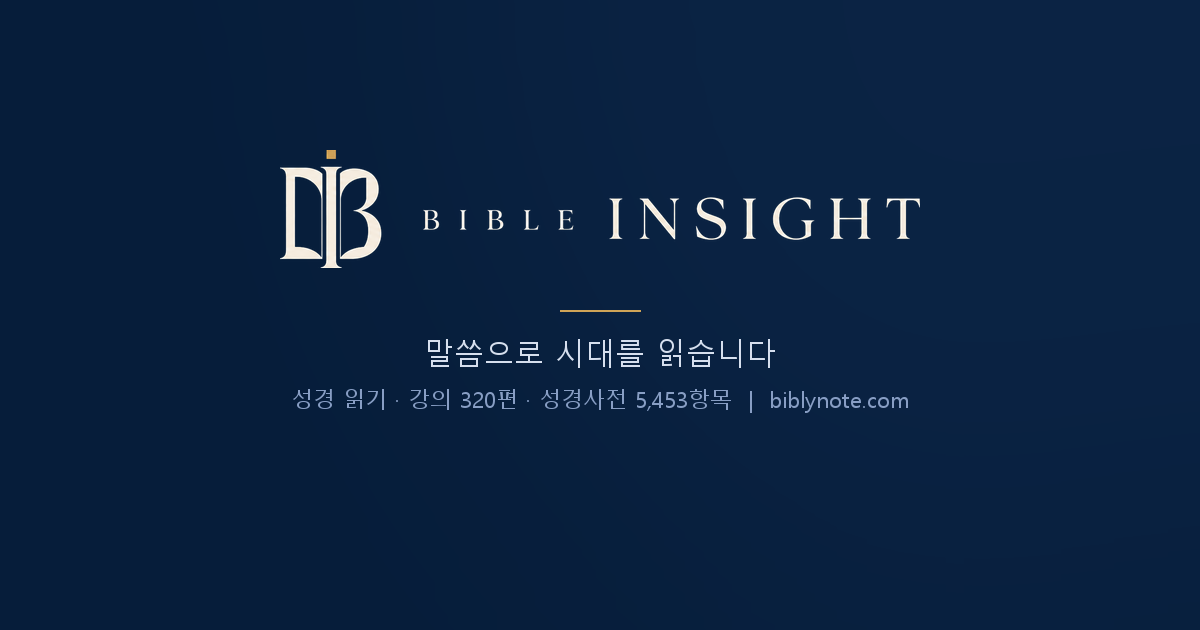
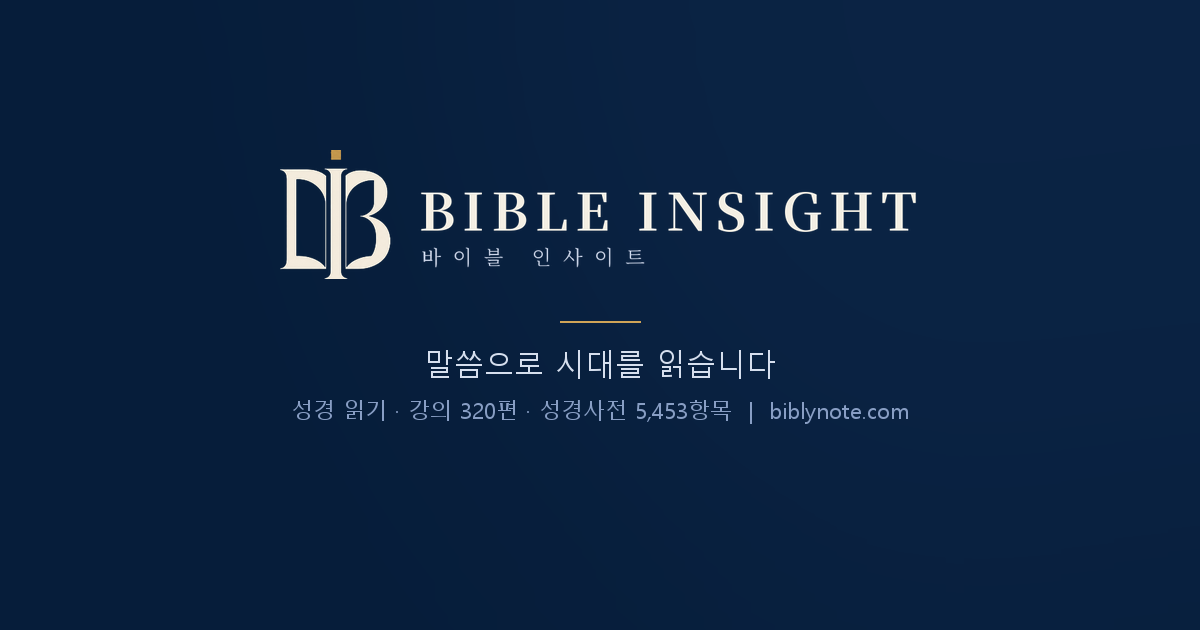
tweak(브랜드): 헤더 워드마크 굵게 + 한글 '바이블 인사이트' 소자 병기(사용자 피드백)
- 원본 wide 로고의 가는 세리프 대신 록업을 직접 조판:
  DB 마크 + Noto Serif Bold 'BIBLE INSIGHT' + 아랫줄 한글 소자(무광 네이비)
- 밝은/어두운 배경 두 변형(compose_lockup) — og-cover도 동일 록업으로 재생성
- 캐시버스터 ?v=2 (9곳)

Changed region(s): [[0.2158, 0.2413, 0.7708, 0.4524], [0.2467, 0.5429, 0.7708, 0.6635], [0.4625, 0.4825, 0.5242, 0.5127]]

diff --git a/booklet.html b/booklet.html
@@ -659,7 +659,7 @@
       ].filter(Boolean).map(r=>`<tr><td style="padding:3px 0;color:#8a94a8;width:120px;vertical-align:top">${r[0]}</td><td style="padding:3px 0;color:#2a3a55">${esc(r[1])}</td></tr>`).join('');
       const html=`<div style="max-width:640px;margin:0 auto;font-family:'Pretendard',system-ui,sans-serif;color:#1c2b46;padding:8px 4px">
         <div style="display:flex;align-items:center;justify-content:space-between;border-bottom:2px solid #213a6b;padding-bottom:16px;margin-bottom:22px">
-          <div style="display:flex;align-items:center;gap:10px"><img src="/images/logo-heritage-wide.png?v=1" alt="바이블 인사이트" style="height:38px;width:auto"/></div>
+          <div style="display:flex;align-items:center;gap:10px"><img src="/images/logo-heritage-wide.png?v=2" alt="바이블 인사이트" style="height:38px;width:auto"/></div>
           <div style="text-align:right"><p style="font-size:22px;font-weight:800;letter-spacing:.04em;margin:0;color:#213a6b">영 수 증</p><p style="font-size:11px;color:#8a94a8;margin:4px 0 0">RECEIPT · 거래 확인서</p></div>
         </div>
         <table style="width:100%;font-size:12.5px;line-height:1.7;margin-bottom:18px"><tbody>
@@ -739,7 +739,7 @@
       window._curLessons=lessons;
       const loadList=unlocked?lessons:lessons.slice(0,1);
       const notes=await Promise.all(loadList.map(async l=>{try{const r=await fetch('content/notes/'+l.id+'.json?t='+Date.now());if(r.ok)return await r.json();}catch(e){}return null;}));
-      let h=`<div class="cover-page" style="text-align:center;padding:42px 0 34px;border-bottom:1px solid #e6e9f0"><img src="/images/logo-heritage-wide.png?v=1" alt="바이블 인사이트" style="height:82px;width:auto;margin:0 auto 16px;display:block"/><p style="color:#00704a;font-weight:700;letter-spacing:.28em;font-size:11px;margin:0 0 14px">바이블 인사이트 · 강의 노트</p><h1 style="font-size:29px;font-weight:700;color:#171717;line-height:1.4;margin:0 12px">${esc(t.name)}</h1><p style="color:#5a6b88;font-size:13px;margin:16px 0 0">요약노트 + 필기 공간 · 전 ${t.lessons.length}강</p><p style="color:#9aa6bd;font-size:11px;margin:20px 0 0">강의를 들으며 메모하고 참고하세요 · biblynote.com</p>${(CUR_BUYER&&CUR_EMAIL)?`<p style="color:#00704a;font-size:10.5px;margin:18px 0 0;letter-spacing:.02em">정품 · <b>${esc(CUR_EMAIL)}</b> 님께 발행 · 무단 복제·배포 금지</p>`:''}</div>`;
+      let h=`<div class="cover-page" style="text-align:center;padding:42px 0 34px;border-bottom:1px solid #e6e9f0"><img src="/images/logo-heritage-wide.png?v=2" alt="바이블 인사이트" style="height:82px;width:auto;margin:0 auto 16px;display:block"/><p style="color:#00704a;font-weight:700;letter-spacing:.28em;font-size:11px;margin:0 0 14px">바이블 인사이트 · 강의 노트</p><h1 style="font-size:29px;font-weight:700;color:#171717;line-height:1.4;margin:0 12px">${esc(t.name)}</h1><p style="color:#5a6b88;font-size:13px;margin:16px 0 0">요약노트 + 필기 공간 · 전 ${t.lessons.length}강</p><p style="color:#9aa6bd;font-size:11px;margin:20px 0 0">강의를 들으며 메모하고 참고하세요 · biblynote.com</p>${(CUR_BUYER&&CUR_EMAIL)?`<p style="color:#00704a;font-size:10.5px;margin:18px 0 0;letter-spacing:.02em">정품 · <b>${esc(CUR_EMAIL)}</b> 님께 발행 · 무단 복제·배포 금지</p>`:''}</div>`;
       // 목차 — 구매자에게는 체크박스·클릭·개별PDF 제공
       const tocRows=lessons.map((l,i)=>{
         if(unlocked){

diff --git a/index.html b/index.html
@@ -189,7 +189,7 @@
     <div class="max-w-7xl mx-auto px-5 pt-3.5 pb-2.5 relative flex items-center justify-center">
       <!-- 새 로고에 BIBLE INSIGHT 워드마크 포함 — 한글 병기 제거(중복 방지), 아래에 ACADEMY 소라벨만 -->
       <a href="#top" class="inline-flex flex-col items-center gap-1.5 leading-none" aria-label="바이블 인사이트">
-        <img src="/images/logo-heritage-wide.png?v=1" alt="바이블 인사이트 로고" class="h-10 md:h-12 w-auto shrink-0" />
+        <img src="/images/logo-heritage-wide.png?v=2" alt="바이블 인사이트 로고" class="h-10 md:h-12 w-auto shrink-0" />
         <span class="inline-flex items-center gap-2">
           <span class="h-px w-6 bg-gold/40"></span>
           <span class="text-[9.5px] md:text-[10px] font-semibold text-gold tracking-[0.34em]">ACADEMY</span>
@@ -1181,7 +1181,7 @@
     <div class="max-w-6xl mx-auto px-5 mt-10 pt-8 border-t border-neutral-200">
       <div class="flex items-center justify-between flex-wrap gap-3 mb-6">
         <div class="flex items-center gap-2.5">
-          <img src="/images/logo-heritage-wide.png?v=1" alt="바이블 인사이트" class="h-7 w-auto"/>
+          <img src="/images/logo-heritage-wide.png?v=2" alt="바이블 인사이트" class="h-7 w-auto"/>
           <span class="font-bold text-[14px] text-neutral-800 tracking-tight">BIBLY <span class="text-gold">·</span> 바이블 인사이트</span>
           <span class="inline-flex items-center gap-1 rounded-full bg-gold/10 border border-gold/20 px-2.5 py-0.5 text-[10.5px] font-semibold tracking-wide text-gold">서울 강남 본부</span>
         </div>
@@ -1217,7 +1217,7 @@
       <button onclick="closeAuth()" class="absolute top-4 right-4 text-neutral-900/40 hover:text-neutral-900 text-xl">✕</button>
 
       <div class="text-center mb-6">
-        <img src="/images/logo-heritage-wide.png?v=1" alt="바이블 인사이트" class="h-14 w-auto mx-auto mb-2.5" />
+        <img src="/images/logo-heritage-wide.png?v=2" alt="바이블 인사이트" class="h-14 w-auto mx-auto mb-2.5" />
         <p class="font-bold text-lg">바이블 인사이트<span class="text-gold">.</span></p>
         <h3 data-cms="home-sec23" id="authTitle" class="text-xl font-bold mt-3">회원가입</h3>
         <p class="text-sm text-neutral-900/55 mt-1">구글 또는 카카오로 3초 만에 시작하세요</p>

diff --git a/site-header.js b/site-header.js
@@ -115,7 +115,7 @@
   // 옆에 한글 브랜드명을 병기하면 중복 + 헤더 폭 초과 → 로고 단독 사용(2026-08-05).
   var LOGO =
     '<a href="index.html" onclick="return __biblyHome(event)" class="flex items-center shrink-0" aria-label="바이블 인사이트 홈">'
-    + '<img src="/images/logo-heritage-wide.png?v=1" alt="바이블 인사이트 로고" class="h-7 md:h-8 w-auto shrink-0" /></a>';
+    + '<img src="/images/logo-heritage-wide.png?v=2" alt="바이블 인사이트 로고" class="h-7 md:h-8 w-auto shrink-0" /></a>';
 
   var mount, active;
 
@@ -305,7 +305,7 @@
           bl.innerHTML =
             '<div style="display:flex;justify-content:space-between;align-items:center;flex-wrap:wrap;gap:12px;margin-bottom:22px">'
             +   '<div style="display:flex;align-items:center;gap:10px">'
-            +     '<img src="/images/logo-heritage-wide.png?v=1" alt="바이블 인사이트" style="height:28px;width:auto"/>'
+            +     '<img src="/images/logo-heritage-wide.png?v=2" alt="바이블 인사이트" style="height:28px;width:auto"/>'
             +     '<span style="font-weight:700;font-size:14px;color:#262626;letter-spacing:-.01em">BIBLY <span style="color:#00704a">·</span> 바이블 인사이트</span>'
             +   '</div>'
             +   '<div style="display:flex;align-items:center;gap:8px">'

diff --git a/watch.html b/watch.html
@@ -391,7 +391,7 @@
     let NOTE_CACHE = {};
     function noteHeader(){
       return `<div style="border-bottom:2px solid #00704a;padding-bottom:10px;margin-bottom:20px;display:flex;align-items:center;gap:10px">
-        <img src="/images/logo-heritage-wide.png?v=1" alt="바이블 인사이트" style="height:34px;width:auto;flex:none"/>
+        <img src="/images/logo-heritage-wide.png?v=2" alt="바이블 인사이트" style="height:34px;width:auto;flex:none"/>
         <span style="font-weight:700;color:#171717;font-size:14px">바이블 인사이트 · 강의 노트</span>
         <span style="margin-left:auto;font-size:12px;color:#a7adba">biblynote.com</span>
       </div>`;

diff --git a/start.html b/start.html
@@ -35,7 +35,7 @@
   <header class="border-b border-ink/8">
     <div class="max-w-5xl mx-auto px-5 h-14 flex items-center justify-center">
       <a href="index.html" class="inline-flex items-center gap-2">
-        <img src="/images/logo-heritage-wide.png?v=1" alt="바이블 인사이트" class="h-8 w-auto" />
+        <img src="/images/logo-heritage-wide.png?v=2" alt="바이블 인사이트" class="h-8 w-auto" />
         <span class="font-bold text-[17px] tracking-tight">바이블 인사이트<span class="text-gold">.</span></span>
       </a>
     </div>

diff --git a/tools/make_logo_web.py b/tools/make_logo_web.py
@@ -37,12 +37,48 @@ def save(im, path, **kw):
                                     os.path.getsize(path) / 1024))
 
 
-# ── ① 가로형 록업 (흰 배경용 네이비) ─────────────────────────
+# ── ① 가로형 록업 — 직접 조판(2026-08-05 사용자 피드백 반영) ──
+#    원본 wide 로고의 영문이 가늘어 헤더에서 약해 보임 →
+#    DB 마크 + 굵은 세리프 "BIBLE INSIGHT" + 아랫줄 한글 "바이블 인사이트" 소자.
+FB_TTF = os.path.join(ROOT, "tools", "fonts", "NotoSerifKR-Bold.ttf")
+FR_TTF = os.path.join(ROOT, "tools", "fonts", "NotoSerifKR-Regular.ttf")
+
+def _tracked(draw, xy, txt, font, fill, tracking):
+    """자간(tracking px)을 주며 한 글자씩 그리기 — 반환: 전체 폭"""
+    x, y = xy
+    for ch in txt:
+        draw.text((x, y), ch, font=font, fill=fill)
+        x += draw.textlength(ch, font=font) + tracking
+    return x - tracking - xy[0]
+
+def compose_lockup(dark_bg=False, h=200):
+    """마크 + BIBLE INSIGHT(굵게) + 바이블 인사이트(소자) 2줄 록업.
+       dark_bg=False → 흰 배경용(네이비/muted), True → 네이비 배경용(크림)."""
+    mark = (cutout if dark_bg else to_light)(monogram(SQ))
+    mark = fit(mark, h=h)
+    c_main = CREAM if dark_bg else NAVY
+    c_sub  = (196, 205, 224) if dark_bg else (98, 112, 140)
+    f_en = ImageFont.truetype(FB_TTF, int(h * 0.40))       # 굵은 세리프 영문
+    f_ko = ImageFont.truetype(FR_TTF, int(h * 0.155))      # 한글 소자
+    tr_en = int(h * 0.055); tr_ko = int(h * 0.09)
+
+    tmp = Image.new("RGBA", (10, 10)); dt = ImageDraw.Draw(tmp)
+    w_en = sum(dt.textlength(c, font=f_en) + tr_en for c in "BIBLE INSIGHT") - tr_en
+    w_ko = sum(dt.textlength(c, font=f_ko) + tr_ko for c in "바이블 인사이트") - tr_ko
+    gap = int(h * 0.22)
+    W = mark.width + gap + int(max(w_en, w_ko)) + 4
+    im = Image.new("RGBA", (W, h), (0, 0, 0, 0))
+    im.paste(mark, (0, 0), mark)
+    d = ImageDraw.Draw(im)
+    tx = mark.width + gap
+    y_en = int(h * 0.16)
+    _tracked(d, (tx, y_en), "BIBLE INSIGHT", f_en, c_main, tr_en)
+    y_ko = y_en + int(h * 0.40 * 1.38)
+    _tracked(d, (tx + int(h * 0.02), y_ko), "바이블 인사이트", f_ko, c_sub, tr_ko)
+    return im
+
 def wide_light():
-    box = HZ.crop(content_box(HZ))
-    light = to_light(box)                       # 크림 획 → 네이비, 배경 투명
-    light = fit(light, h=200)                   # 헤더 최대 56px 표시 → 200px이면 레티나 3배도 충분
-    save(light, os.path.join(IMG, "logo-heritage-wide.png"))
+    save(compose_lockup(dark_bg=False, h=200), os.path.join(IMG, "logo-heritage-wide.png"))
 
 
 # ── ② 정사각 512 (JSON-LD Organization.logo 용) ─────────────
@@ -55,7 +91,7 @@ def square():
 def og_cover():
     W, H = 1200, 630
     im = glow_bg(W, H)
-    lock = cutout(HZ.crop(content_box(HZ)))
+    lock = compose_lockup(dark_bg=True, h=200)
     lock = fit(lock, w=640)
     im.paste(lock, ((W - lock.width) // 2, 150), lock)
     d = ImageDraw.Draw(im)
